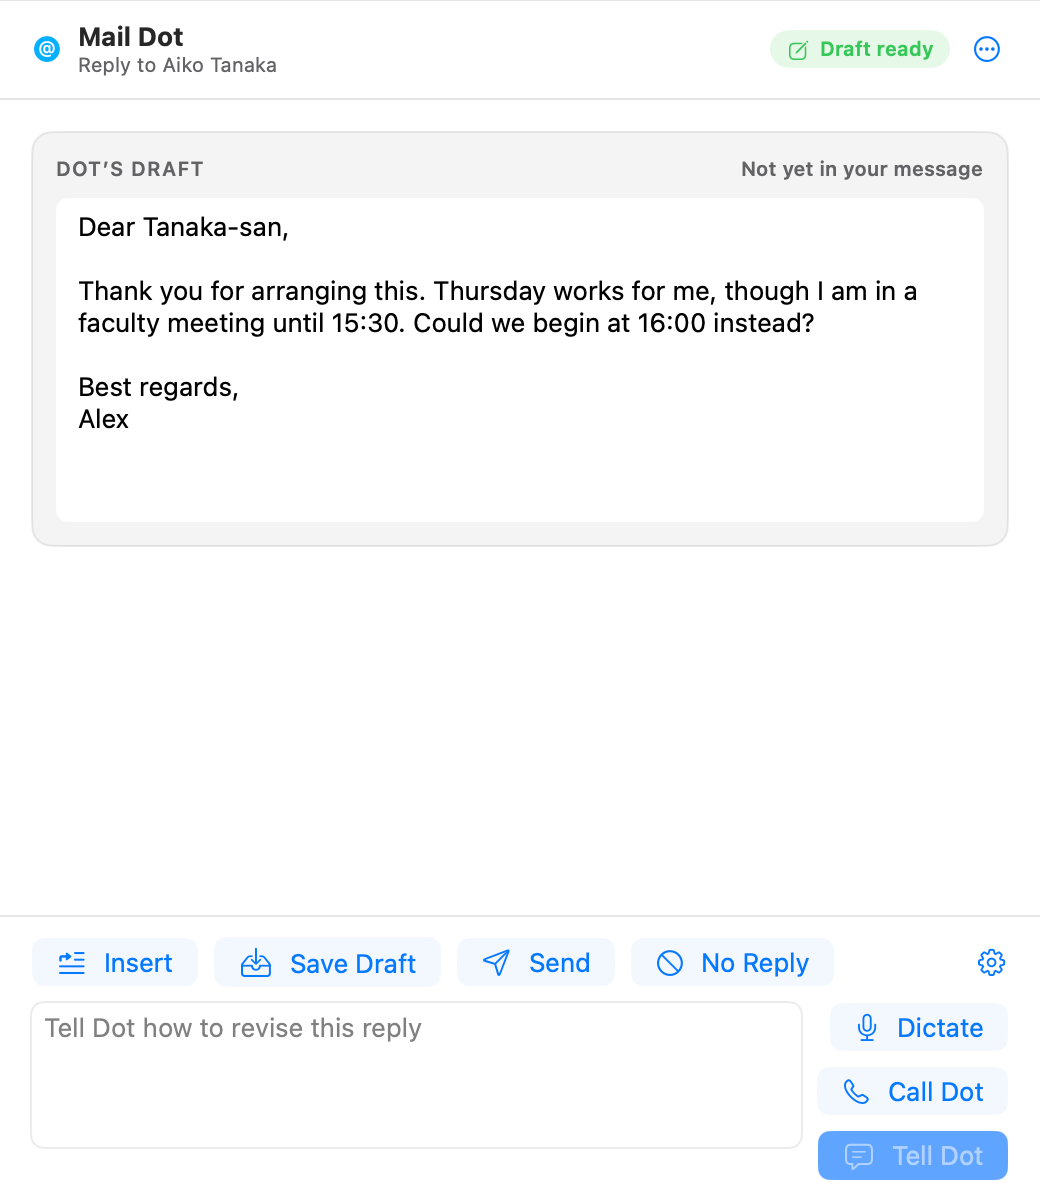
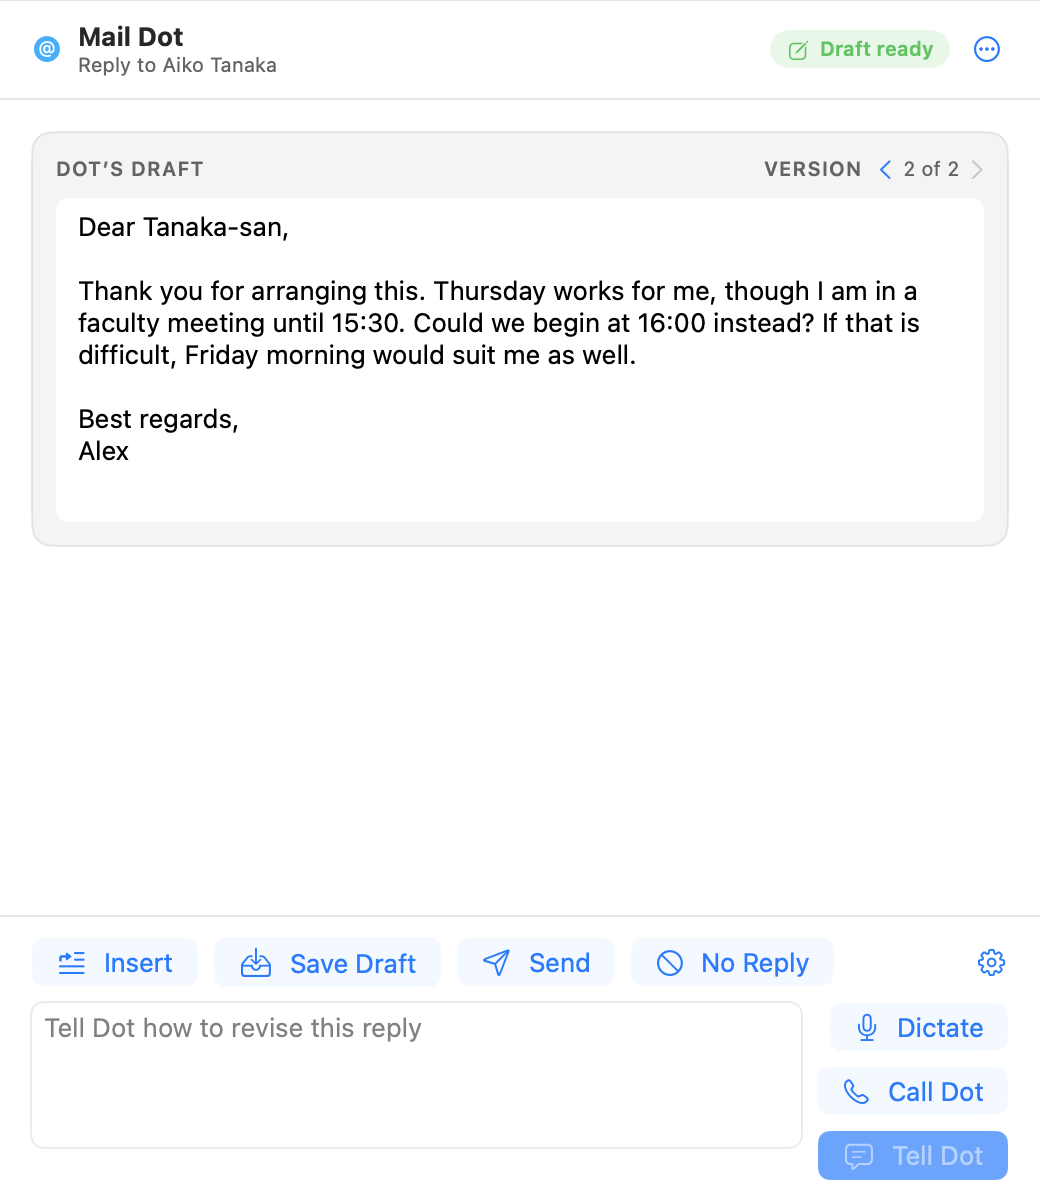
README: reply panel picture from 0.4.235, with the Version switcher

diff --git a/README.md b/README.md
@@ -107,7 +107,7 @@ Inside the one app are four parts: the Mail extension, which draws the banner, t
 
 In a reply window, the Mail Dot button in the toolbar opens the panel. Insert places Dot's draft at the head of the reply and leaves the quoted mail untouched; Save Draft also saves it to Drafts; No Reply dismisses it. Send places it, brings Mail forward and asks for one confirmation naming the recipients, after which Mail sends the message; Command-Return chooses Send. With **Confirm before sending** turned off under Drafting Rules in the settings, your press of Send is the confirmation; a send Dot prepared during a voice call always waits for your confirmation on the Mac. Dot has no tool that can confirm a send, a message changed after confirmation is not sent, and text inside a message can never authorise an action. The field beneath takes an instruction for revising the draft, typed or spoken through Dictate; Tell Dot sends it, and Call Dot opens a voice call for the same purpose.
 
-<p align="center"><img src="docs/images/reply-draft-ready.png" width="520" alt="Mail Dot's panel in a reply window, showing a draft that Dot has written, with buttons to insert it, save it as a draft, send it or decline to reply, with the settings gear at the right of that row, and beneath them a box for telling Dot how to revise it, with Dictate, Call Dot and Tell Dot beside it."></p>
+<p align="center"><img src="docs/images/reply-draft-ready.png" width="520" alt="Mail Dot's panel in a reply window, showing a draft that Dot has written and a Version switcher showing 2 of 2, with buttons to insert it, save it as a draft, send it or decline to reply, with the settings gear at the right of that row, and beneath them a box for telling Dot how to revise it, with Dictate, Call Dot and Tell Dot beside it."></p>
 
 Mail Dot's settings open from the gear at the bottom right of every Mail Dot panel, including the Mail Dot window and the reply panel: Accounts, Drafting Rules (with Sending), Layout and Connection.
 
